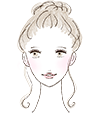
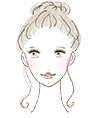
写真

diff --git a/index.html b/index.html
@@ -301,7 +301,7 @@
                             <div class="voice__wrapper">
                                 <h3 class="voice__title">脱毛コース</h3>
                                 <div class="voice__wrap voice__wrap-spacial">
-                                    <img src="/assets/image/voice_0101.png" alt="" class="voice__img">
+                                    <img src="/assets/image/voice_01.png" alt="" class="voice__img">
                                     <div class="voice__box">
                                         <p class="voice__txt">20代Y.Kさま/会社員</p>
                                         <p class="voice__text">ここにコピーが入ります。ここにコピーが入ります。ここにコピーが入ります。ここにコピーが入ります。</p>
